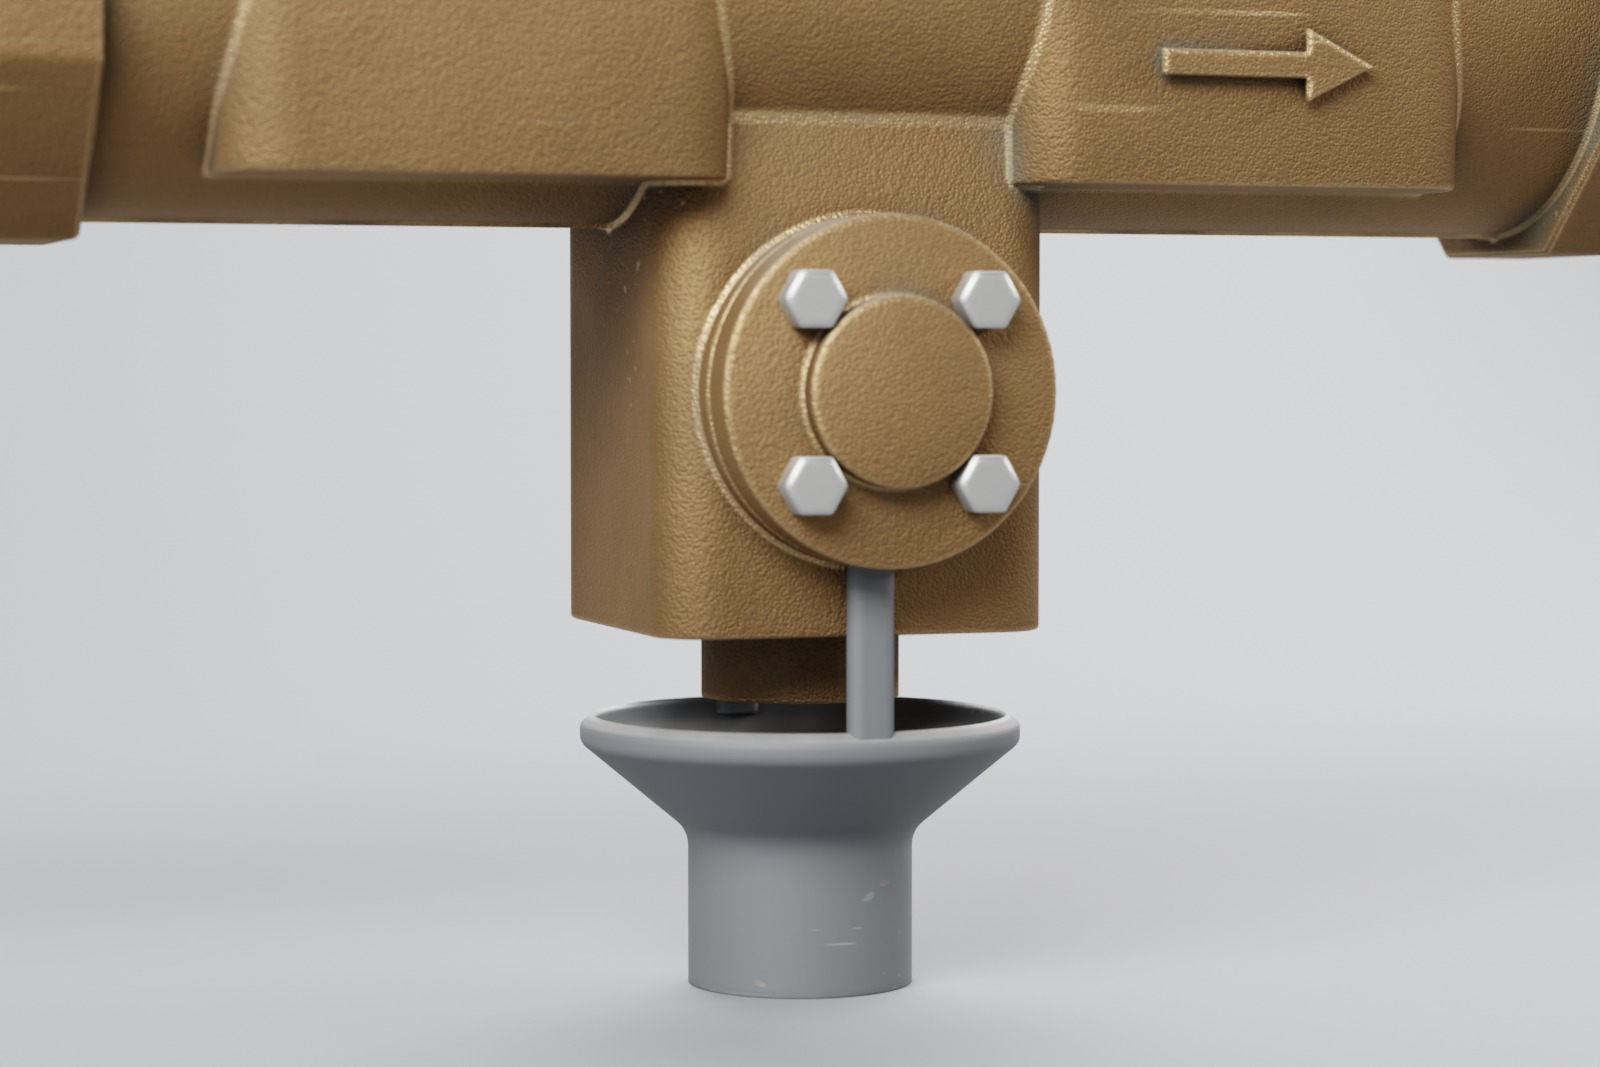
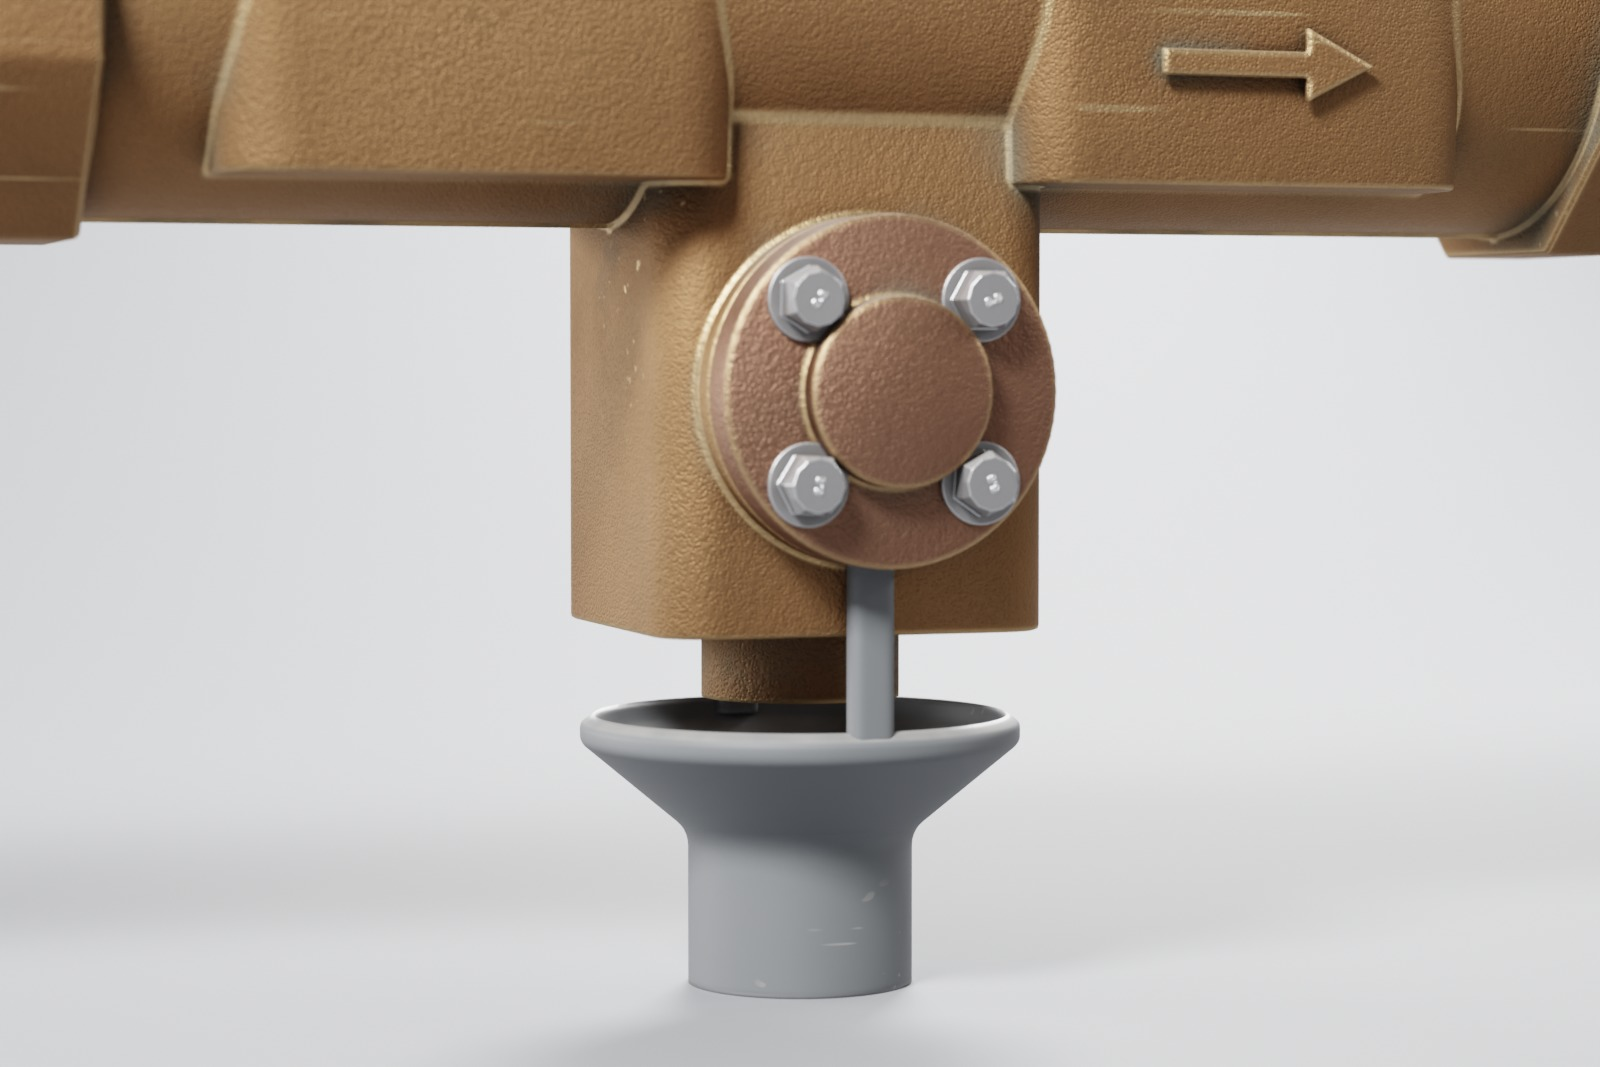
northline: gallery from v7 (real cap screws) with photo lighting and material variation; hub note

diff --git a/hub/index.html b/hub/index.html
@@ -160,8 +160,8 @@
       <td class="n">Draft. Model rebuilt in Blender from the spec-sheet photo (Revit used for layout only); internals modeled from the manual's exploded drawing. Next: consumer Watts product, optional Figurement renders.</td></tr><tr class="keep">
       <td><a href="/northline-rpz.html" target="_blank">northline-rpz.html</a><div class="grp">Generic / Tradeshow</div></td>
       <td>Brand-neutral twin of the Watts page: fictional "Northline Flow Controls" NRP-200 RPZ (reduced pressure zone) backflow preventer, built so it does NOT read as any real product (teal quarter-turn levers, two round 4-bolt check covers, front-access relief valve, grey air-gap funnel, NORTHLINE cast on body). Same three tabs (Product / Replacement Parts with Outside-Inside callouts / 10-step Install &amp; Service incl. air-gap drain + relief valve service, lever quarter-turn animation), Renders gallery, QR/AR, real GLB download. Fictional part numbers NL-10441..3 (kits RT / CK / RV); footer says brand + specs are illustrative.</td>
-      <td class="d">2026-10-16</td>
-      <td class="u"><b>2026-10-16:</b> gallery re-rendered from the industrial rebuild <code>northline_rpz_v6</code> (admin/rpz/build_rpz_v6.py: flat-sided check housings + seat flanges, flat bolted covers, parting lines, octagon wrench flats, chunkier test fittings on cast risers, cylindrical ball valves, hex unions with bare thread, stamped levers; harsh-edge wrapper) with the lived-in material pass (WEAR=1 in render_rpz_v2.py: sand-cast grain, grime, scratches, muted verdigris). The 3D viewer still loads v3 until v6 GLB is uploaded (platform processing stuck, with Model Ops). <code>tradeshows</code> ws (3 platform hotspots via API: relief valve, air gap, check covers): NRP-200 v3 <code>872c460e</code> (v2 <code>645ce7af</code> superseded, z-fighting under covers). Source: admin/rpz/build_rpz.py (headless Blender, reuses Watts materials from admin/watts/2000B-FP_v6.blend) + vlib.py helpers + render_rpz.py. Renders in assets/northline/ (v2 photoreal pass: admin/watts/render_v2/render_rpz_v2.py).</td>
+      <td class="d">2026-10-19</td>
+      <td class="u"><b>2026-10-19:</b> gallery re-rendered from <code>northline_rpz_v7</code> (admin/rpz/build_rpz_v7.py: real cap screws, chamfered hex heads + washers + grade marks, from Ashley's "bolts look fake" note with an AI edit as reference) with LIGHT=photo and the material-variation pass in render_rpz_v2.py (per-part batch tint/roughness, multi-scale colour blotches, roughness breakup, varied grain + porosity pits, brass lathe marks). <b>2026-10-16:</b> gallery re-rendered from the industrial rebuild <code>northline_rpz_v6</code> (admin/rpz/build_rpz_v6.py: flat-sided check housings + seat flanges, flat bolted covers, parting lines, octagon wrench flats, chunkier test fittings on cast risers, cylindrical ball valves, hex unions with bare thread, stamped levers; harsh-edge wrapper) with the lived-in material pass (WEAR=1 in render_rpz_v2.py: sand-cast grain, grime, scratches, muted verdigris). The 3D viewer still loads v3 until v6 GLB is uploaded (platform processing stuck, with Model Ops). <code>tradeshows</code> ws (3 platform hotspots via API: relief valve, air gap, check covers): NRP-200 v3 <code>872c460e</code> (v2 <code>645ce7af</code> superseded, z-fighting under covers). Source: admin/rpz/build_rpz.py (headless Blender, reuses Watts materials from admin/watts/2000B-FP_v6.blend) + vlib.py helpers + render_rpz.py. Renders in assets/northline/ (v2 photoreal pass: admin/watts/render_v2/render_rpz_v2.py).</td>
       <td class="n">For B2B eComm World booth, social, other prospects. Page generated from watts.html (scratchpad mk_northline.py); fix here moves only top-level part objects (Watts page still double-applies offsets but is tuned to look right).</td></tr><tr class="keep">
       <td><a href="/fluent-index.html" target="_blank">fluent-index.html</a><div class="grp">Fluent</div></td>
       <td>Fluent Conveyors replacement-parts index. Links the two interactive Fluent product explorers (impact bed, helical drive). Client-branded (quiet).</td>

diff --git a/northline-rpz.html b/northline-rpz.html
@@ -786,9 +786,9 @@ $("resetBtn").onclick=()=>{ applyTabState(); };
 
 /* ---------------- renders + Revit overlay ---------------- */
 const RENDERS=[["hero","Hero, three-quarter"],["front","Front elevation"],["top","Top three-quarter"],["detail","Relief valve and air gap"],["service","Service view, checks and relief removed"]];
-$("gallery").innerHTML=RENDERS.map(([k,c],i)=>`<figure data-i="${i}"><img src="assets/northline/render_${k}.jpg?v=3" alt="${c}" loading="lazy"><figcaption>${c}</figcaption></figure>`).join("");
-$("thumbs").innerHTML=RENDERS.map(([k,c],i)=>`<img data-i="${i}" src="assets/northline/render_${k}.jpg?v=3" alt="${c}">`).join("");
-function showRender(i){ $("renderImg").src=`assets/northline/render_${RENDERS[i][0]}.jpg?v=3`; $("thumbs").querySelectorAll("img").forEach(t=>t.classList.toggle("on",+t.dataset.i===i)); }
+$("gallery").innerHTML=RENDERS.map(([k,c],i)=>`<figure data-i="${i}"><img src="assets/northline/render_${k}.jpg?v=4" alt="${c}" loading="lazy"><figcaption>${c}</figcaption></figure>`).join("");
+$("thumbs").innerHTML=RENDERS.map(([k,c],i)=>`<img data-i="${i}" src="assets/northline/render_${k}.jpg?v=4" alt="${c}">`).join("");
+function showRender(i){ $("renderImg").src=`assets/northline/render_${RENDERS[i][0]}.jpg?v=4`; $("thumbs").querySelectorAll("img").forEach(t=>t.classList.toggle("on",+t.dataset.i===i)); }
 $("thumbs").addEventListener("click",e=>{ const t=e.target.closest("img"); if(t) showRender(+t.dataset.i); });
 $("gallery").addEventListener("click",e=>{ const f=e.target.closest("figure"); if(!f) return; setTab("product"); setMode("renders"); showRender(+f.dataset.i); window.scrollTo({top:0,behavior:"smooth"}); });
 function setMode(m){
